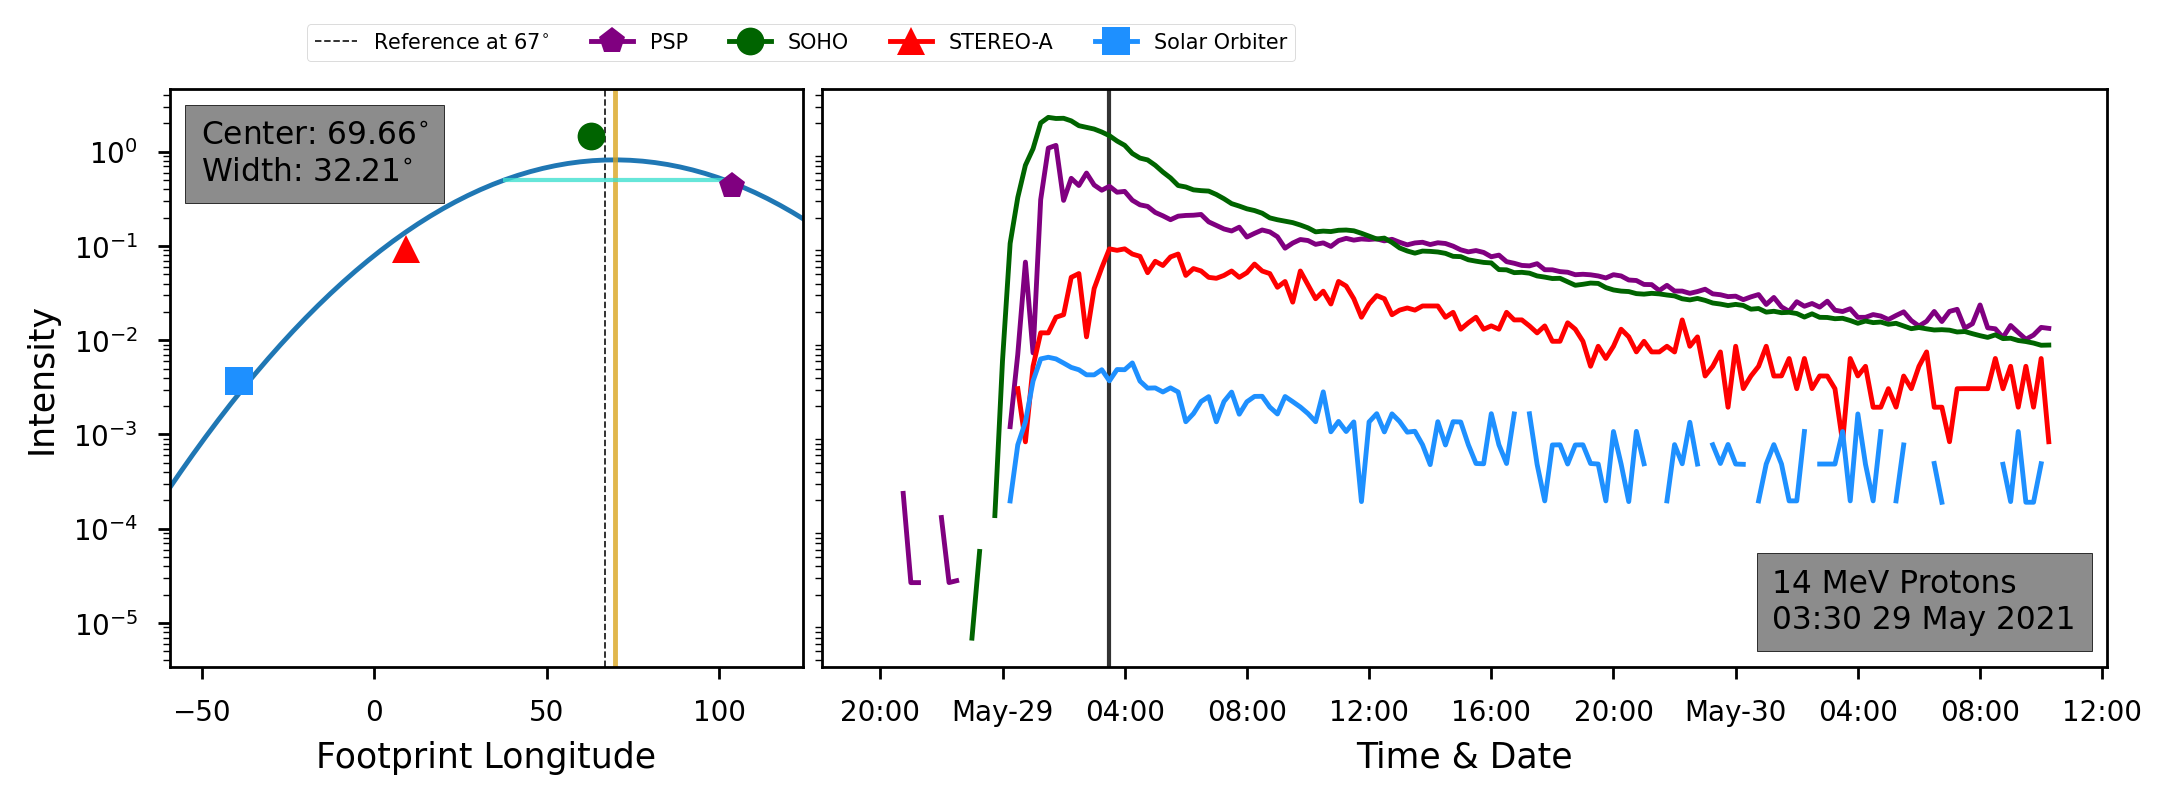
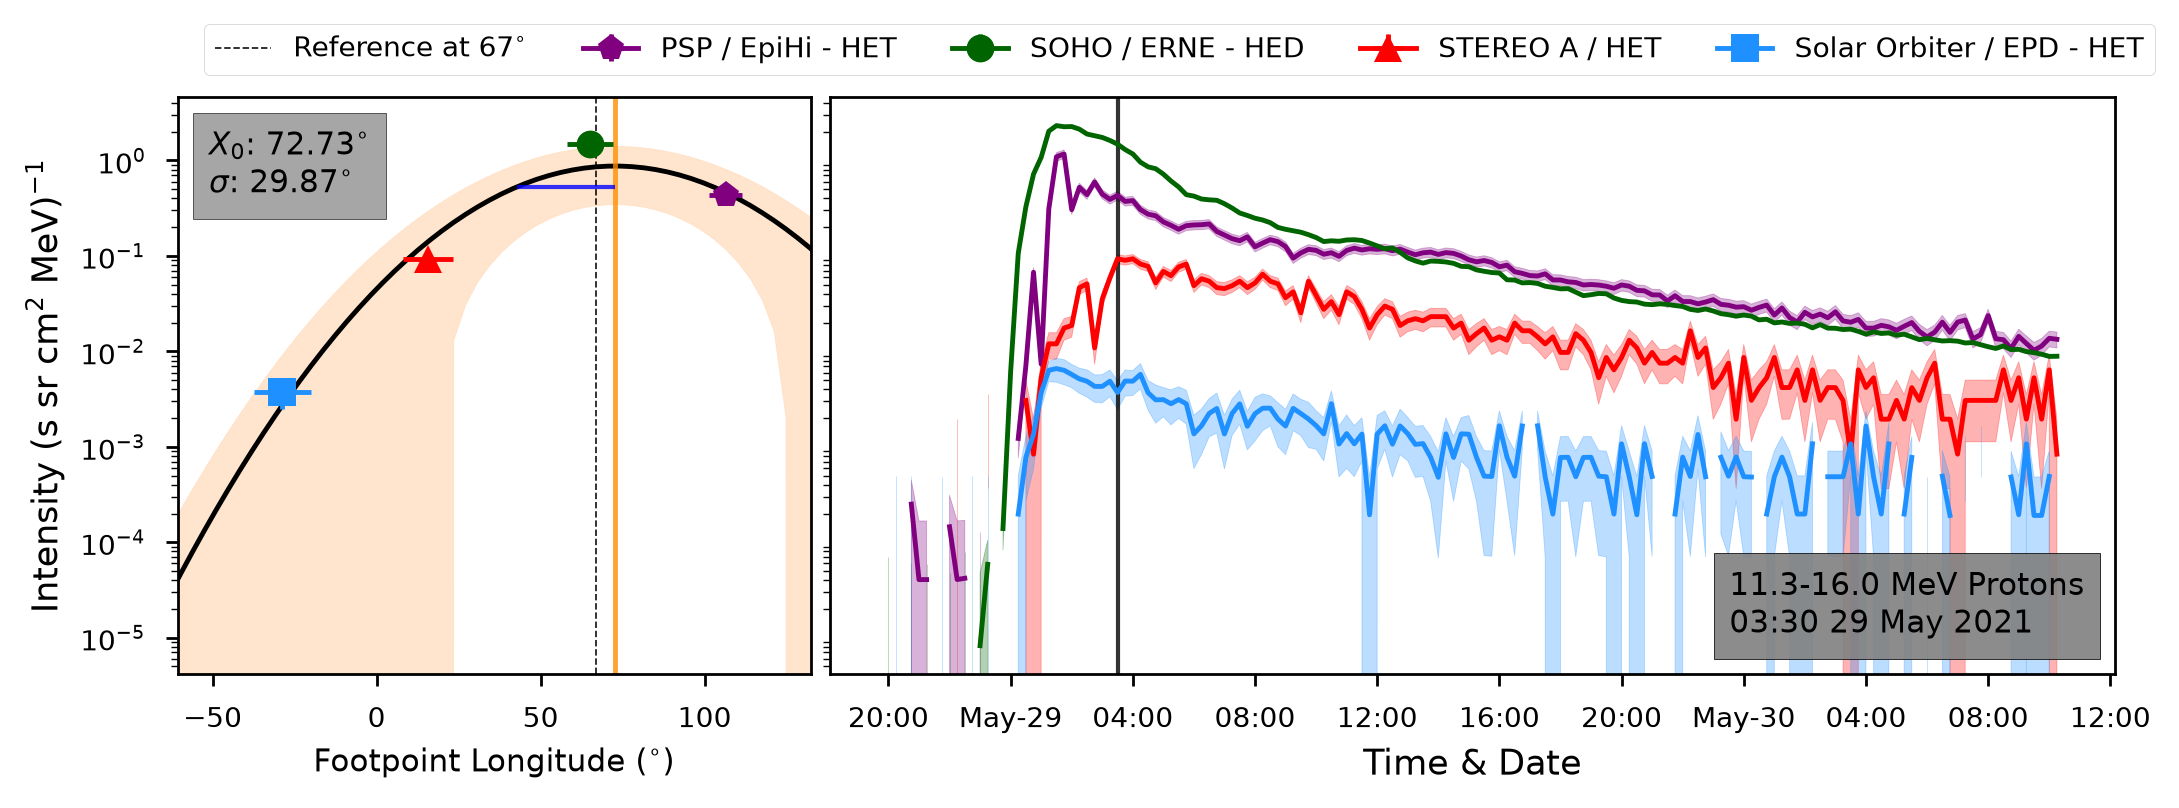
Changing definition for sigma
All Gaussian parameter labels (center and width) are changed to their symbols (X_0 and sigma) for accuracy. The curve plots are also changed for sigma to only show a line from the center to the curve, now showing the distance for sigma (std deviation) and not 'width'. Hidden the backup read_saved_files function and set to false but included in the markdown so users are still able to use it if they please.

diff --git a/spatial_analysis/__init__.py b/spatial_analysis/__init__.py
@@ -64,6 +64,7 @@ mpl.rcParams.update({'font.size': 10,
 
 
 DEGREE_TEXT = r'$^{\circ}$'
+X0_TEXT = r'$X_0$'
 SIGMA_TEXT = r'$\sigma$'
 PM_SYMB = r"$\pm$"
 SQUARED_TEXT = r"$^{2}$"
@@ -115,6 +116,7 @@ class SpatialEvent:
         self.energy_range_label = ""
         self.resampling = ""
         self.plot_foot_sep_limits = False # True if farside event then this plots the separation values
+        self.read_saved_data = False
 
         if 'flare_loc' in kwargs.keys():
             self.flare_loc = kwargs['flare_loc']
@@ -192,7 +194,8 @@ class SpatialEvent:
             resampling = self.resampling,
             source_loc = self.reference,
             vsw_list = self.vsw_list,
-            raw_path = self.raw_path)
+            raw_path = self.raw_path,
+            read_saved_data = self.read_saved_data)
 
         # Merge the sc data to the sm data
         if len(self.sc_data_ic) != 0:
@@ -211,15 +214,16 @@ class SpatialEvent:
             print("Please run '*.load_spacecraft_data()' first.")
 
 
-    def load_spacecraft_data(self, channels, resampling, read_saved_data=True): # Step 2
+    def load_spacecraft_data(self, channels, resampling, read_saved_data=False): # Step 2
         """Download the data for each sc"""
         self.channels = channels
         self.resampling = resampling
         self.spacecraft_list = list(channels.keys())
+        self.read_saved_data = read_saved_data
 
         full_energy_range = [np.nan, np.nan]
         for sc in tqdm(self.spacecraft_list):
-            self.sc_data[sc], self.channel_labels[sc] = load_sc_data(sc, self.channels, [self.start, self.end], self.raw_path, self.resampling, read_saved_data)
+            self.sc_data[sc], self.channel_labels[sc] = load_sc_data(sc, self.channels, [self.start, self.end], self.raw_path, self.resampling, self.read_saved_data)
 
             # Collecting the full energy range
             lbl_tmp = (self.channel_labels[sc]).split('-')
@@ -495,15 +499,16 @@ class SpatialEvent:
 
 
 ## Observer Location data loader
-def horizons_speasy_location_loader(observers, dates, data_path, resampling, source_loc, vsw_list, raw_path):
+def horizons_speasy_location_loader(observers, dates, data_path, resampling, source_loc, vsw_list, raw_path, read_saved_data):
     """Downloading data from sunpy and speasy, similar to SolarMACH but a full time period is loaded for each observer.
 
     NB if any NaNs are present, then they do remain and we do not currently try to fill the gap."""
     filename = f"SpacecraftLocationData_{dates[0].strftime('%d%m%Y')}.csv"
 
     if filename in os.listdir(data_path) or filename in os.listdir(raw_path):
-        print("The positional data is already downloaded, would you like to use this data (y) or redownload the data if settings have changed.")
-        if input("Yes (y) or no (press enter)").lower() in ['yes','y']:
+        #print("The positional data is already downloaded, would you like to use this data (y) or redownload the data if settings have changed.")
+        #if input("Yes (y) or no (press enter)").lower() in ['yes','y']:
+        if read_saved_data:
             if filename in os.listdir(data_path):
                 sm_loop = pd.read_csv(data_path+filename, 
                                       index_col=0, header=[0,1],
@@ -1661,7 +1666,7 @@ def plot_timeseries_result(sc_dict, data_path, dates, channel_labels, background
 
     # Title
     ax[0].set_title(dates[0].strftime("%H:%M - %d %b, %Y"), pad=9, loc='left')
-    fig.supylabel('Intensity')
+    fig.supylabel(f'Intensity (s sr cm{SQUARED_TEXT} MeV){NEGPOWER_TEXT}', x=-0.04)
 
 
     for n, sc in enumerate(obs):
@@ -1775,7 +1780,7 @@ def plot_peak_intensity(sc_dict, data_path, date, peak_data_results, energy_rang
     gauss_ax = fig.add_subplot(grid[0,0])
     tseries_ax = fig.add_subplot(grid[0,1:], sharey=gauss_ax)
 
-    gauss_ax.set_ylabel('Intensity', fontsize=9)
+    gauss_ax.set_ylabel(f'Intensity (s sr cm{SQUARED_TEXT} MeV){NEGPOWER_TEXT}', fontsize=9)
     if plot_foot_sep_limits:
         gauss_ax.set_xlabel(f'Footpoint Separation ({DEGREE_TEXT})', fontsize=9)
         x_col_label = 'long_sep'
@@ -1830,11 +1835,11 @@ def plot_peak_intensity(sc_dict, data_path, date, peak_data_results, energy_rang
     y_curve = 10**(log_gauss_function(x_curve, peak_data_results['A'], peak_data_results['X0']+flarelong, peak_data_results['sigma']))
 
     gauss_ax.semilogy(x_curve, y_curve, color='k')
-    gauss_ax.axvline(x=peak_data_results['X0']+flarelong, color='goldenrod', linewidth=1.2, alpha=0.8)
+    gauss_ax.axvline(x=peak_data_results['X0']+flarelong, color='darkorange', linewidth=1.2, alpha=0.8)
     gauss_ax.hlines(y=0.6065*(10**peak_data_results['A']),
                     xmin=(peak_data_results['X0']+flarelong-peak_data_results['sigma']),
-                    xmax=(peak_data_results['X0']+flarelong+peak_data_results['sigma']),
-                    color='turquoise', linewidth=1.2, alpha=0.8)
+                    xmax=(peak_data_results['X0']+flarelong),
+                    color='blue', linewidth=1.2, alpha=0.8)
 
     # Provide error range
 
@@ -1842,21 +1847,23 @@ def plot_peak_intensity(sc_dict, data_path, date, peak_data_results, energy_rang
     gauss_ax.fill_between(x_curve, y_curve-yerr_curve, y_curve+yerr_curve, alpha=0.7, color='peachpuff')
 
     # Add vertical line for flare if given
+    gauss_text = ''
     if not pd.isna(flare_loc[0]):
         gauss_ax.axvline(x=flarelong, color='k', linestyle='dashed',
                          linewidth=0.5, alpha=0.9,
                          label=f"Reference at {flare_loc[0]}{DEGREE_TEXT}")
+        gauss_text = f"Reference at [{flare_loc[0]}, {flare_loc[1]}]{DEGREE_TEXT}\n"
 
     # Add the text
-    gauss_text = f"Center = {peak_data_results['X0']+flarelong:.1f}{DEGREE_TEXT}\n"
-    gauss_text = f"{gauss_text}Width = {peak_data_results['sigma']:.1f}{DEGREE_TEXT}"
+    gauss_text = f"{gauss_text}{X0_TEXT} = {peak_data_results['X0']+flarelong:.1f}{DEGREE_TEXT}\n"
+    gauss_text = f"{gauss_text}{SIGMA_TEXT} = {peak_data_results['sigma']:.1f}{DEGREE_TEXT}"
     box_obj = AnchoredText(gauss_text, frameon=True, loc='upper left', pad=0.5, prop={'size':8})
     plt.setp(box_obj.patch, facecolor='aliceblue', alpha=0.8)
     gauss_ax.add_artist(box_obj)
 
 
     gauss_ax.set_xlim([xlimits[0]-40, xlimits[1]+40])
-    gauss_ax.set_ylim([ylimits[0]*0.5, ylimits[1]*10])
+    gauss_ax.set_ylim([ylimits[0]*0.8, ylimits[1]*15])
     tseries_ax.set_xlim(left=(date - dt.timedelta(hours=1)) )#, date + dt.timedelta(hours=20))
     tseries_ax.xaxis.set_major_formatter(
         mpl.dates.ConciseDateFormatter(tseries_ax.xaxis.get_major_locator(),
@@ -1900,7 +1907,7 @@ def plot_curve_and_timeseries(gauss_values, sc_df, full_df, data_path, timestep,
     gauss_ax = fig.add_subplot(grid[0,0])
     tseries_ax = fig.add_subplot(grid[0,1:], sharey=gauss_ax)
 
-    gauss_ax.set_ylabel('Intensity')
+    gauss_ax.set_ylabel(f'Intensity (s sr cm{SQUARED_TEXT} MeV){NEGPOWER_TEXT}')
     tseries_ax.set_xlabel('Time & Date')
 
     if plot_foot_sep_limits:
@@ -1936,15 +1943,16 @@ def plot_curve_and_timeseries(gauss_values, sc_df, full_df, data_path, timestep,
     tseries_ax.axvline(x=timestep, color='k', linewidth=1.2, alpha=0.8)
 
     # Add a vertical line in the gaussian curve to indicate the flares initial position (if provided)
+    gauss_text = ''
     if not pd.isna(flare_loc[0]):
         gauss_ax.axvline(x=flarelong, color='k', linestyle='dashed', linewidth=0.5, alpha=0.9, label=f'Reference at {flare_loc[0]}{DEGREE_TEXT}')
 
     # Add the Gauss results text
     #gauss_values['X0'] = gauss_values['X0']+flarelong
-    gauss_text = f"Center: {gauss_values['X0']+flarelong:.2f}{DEGREE_TEXT}\n"
-    gauss_text = f"{gauss_text}Width: {gauss_values['sigma']:.2f}{DEGREE_TEXT}"
+    gauss_text = f"{gauss_text}{X0_TEXT}: {gauss_values['X0']+flarelong:.2f}{DEGREE_TEXT}\n"
+    gauss_text = f"{gauss_text}{SIGMA_TEXT}: {gauss_values['sigma']:.2f}{DEGREE_TEXT}"
     box_obj = AnchoredText(gauss_text, frameon=True, loc='upper left', pad=0.5, prop={'size':9})
-    plt.setp(box_obj.patch, facecolor='grey', alpha=0.9)
+    plt.setp(box_obj.patch, facecolor='grey', alpha=0.7)
     gauss_ax.add_artist(box_obj)
 
     # Calculate and plot the curve
@@ -1960,11 +1968,11 @@ def plot_curve_and_timeseries(gauss_values, sc_df, full_df, data_path, timestep,
 
 
     # Show the different elements of the curve (ie the center and width)
-    gauss_ax.axvline(x=gauss_values['X0']+flarelong, color='goldenrod', alpha=0.8)
+    gauss_ax.axvline(x=gauss_values['X0']+flarelong, color='darkorange', alpha=0.8)
     gauss_ax.hlines(y=0.6065*(10**gauss_values['A']),
                     xmin=(gauss_values['X0']+flarelong-gauss_values['sigma']),
-                    xmax=(gauss_values['X0']+flarelong+gauss_values['sigma']),
-                    color='turquoise', alpha=0.8, linewidth=1.2)
+                    xmax=(gauss_values['X0']+flarelong),
+                    color='blue', alpha=0.8, linewidth=1.2)
 
 
 
@@ -1977,7 +1985,8 @@ def plot_curve_and_timeseries(gauss_values, sc_df, full_df, data_path, timestep,
                           10**(sc_df['y'][n]),
                           xerr=sc_df['xerr'][n],
                           yerr=10**(sc_df['yerr'][n]),
-                          label=sc_df['sc'][n], marker=markers['marker'],
+                          label=markers['label'], #sc_df['sc'][n],
+                          marker=markers['marker'],
                           color=markers['color'], ecolor=markers['color'])
 
         # Plot the timeseries data
@@ -1987,7 +1996,8 @@ def plot_curve_and_timeseries(gauss_values, sc_df, full_df, data_path, timestep,
                                 y1=full_df[sc_df['sc'][n]]['Flux'] - full_df[sc_df['sc'][n]]['Uncertainty'],
                                 y2=full_df[sc_df['sc'][n]]['Flux'] + full_df[sc_df['sc'][n]]['Uncertainty'],
                             color=markers['color'], alpha=0.3)
-    gauss_ax.legend(bbox_to_anchor=(0.2, 1.03, 1.0, 0.1), loc='upper left', ncols=6, fontsize=6)
+    gauss_ax.legend(loc='upper left', bbox_to_anchor=(0.02,1.15), ncols=6, fontsize=8)
+    #bbox_to_anchor=(0.2, 1.03, 1.0, 0.1), loc='upper left', ncols=6, fontsize=9)
 
     gauss_ax.set_xlim(xlimits[0]-20, xlimits[1]+20)
     tseries_ax.set_ylim(ylimits[0]*0.5, ylimits[1]*2)
@@ -2067,14 +2077,14 @@ def plot_one_timestep_curve(sc_dict, data_path, timestep, channel_labels, flare_
         alpha=0.7, color='peachpuff')
 
     # Show the curves elements
-    ax.axvline(x=gauss_values['X0']+flarelong, color='goldenrod', alpha=0.8)
+    ax.axvline(x=gauss_values['X0']+flarelong, color='darkorange', alpha=0.8)
     ax.hlines(y=0.6065*(10**gauss_values['A']),
                 xmin=(gauss_values['X0']+flarelong-gauss_values['sigma']),
-                xmax=(gauss_values['X0']+flarelong+gauss_values['sigma']),
-                color='turquoise', alpha=0.8, linewidth=1.2, zorder=0)
+                xmax=(gauss_values['X0']+flarelong),
+                color='blue', alpha=0.95, linewidth=1.2, zorder=0)
 
-    gauss_text = f"Center: {gauss_values['X0']:.2f}{DEGREE_TEXT}\n"
-    gauss_text = f"{gauss_text}Width: {gauss_values['sigma']:.2f}{DEGREE_TEXT}"
+    gauss_text = f"{X0_TEXT}: {gauss_values['X0']:.2f}{DEGREE_TEXT}\n"
+    gauss_text = f"{gauss_text}{SIGMA_TEXT}: {gauss_values['sigma']:.2f}{DEGREE_TEXT}"
     box_obj2 = AnchoredText(gauss_text, frameon=True, loc='upper right',
                             pad=0.5, prop={'size':7})
     plt.setp(box_obj2.patch, facecolor='lemonchiffon', alpha=0.5)
@@ -2085,7 +2095,7 @@ def plot_one_timestep_curve(sc_dict, data_path, timestep, channel_labels, flare_
     if not pd.isna(flare_loc[0]):
         ax.axvline(x=flarelong, color='k', linestyle='dashed',
                     linewidth=0.5, alpha=0.9,
-                    label=f"Reference at {flare_loc[0]}{DEGREE_TEXT}")
+                    label=f"Reference at [{flare_loc[0]}, {flare_loc[1]}]{DEGREE_TEXT}")
 
     ax.legend(#bbox_to_anchor=(1., 0.9, 0.5, 0.1), loc='upper left',
                 loc='upper left', ncols=1, fontsize=5)
@@ -2136,8 +2146,8 @@ def plot_gauss_fits_timeseries(sc_dict, data_path, date, ref, channel_labels, fl
     fig, ax = plt.subplots(3, 1, figsize=[6,6], dpi=300, sharex=True)
     plt.subplots_adjust(hspace=0.02)
 
-    ax[0].set_title(date.strftime("%H:%M - %d %b, %Y"), pad=20, loc='left')
-    ax[0].set_ylabel('Intensity')
+    ax[0].set_title(date.strftime("%H:%M - %d %b, %Y"), pad=23, loc='left')
+    ax[0].set_ylabel(f'Intensity (s sr cm{SQUARED_TEXT} MeV){NEGPOWER_TEXT}')
     ax[1].set_ylabel(r'Gauss $X_0$')
     ax[2].set_ylabel(r'Gauss $\sigma$')
 
@@ -2163,7 +2173,7 @@ def plot_gauss_fits_timeseries(sc_dict, data_path, date, ref, channel_labels, fl
         ylimits['intensity'][0] = np.nanmin([ylimits['intensity'][0], np.nanmin(s_df['Flux'])] )
         ylimits['intensity'][1] = np.nanmax([ylimits['intensity'][1], np.nanmax(s_df['Flux'])] )
 
-    ax[0].legend(loc='upper center', ncols=4, bbox_to_anchor=(0.5,1.15))
+    ax[0].legend(loc='upper center', ncols=2, bbox_to_anchor=(0.5,1.22), fontsize=6)
 
 
     # Plot the flare location if its provided
@@ -2171,7 +2181,7 @@ def plot_gauss_fits_timeseries(sc_dict, data_path, date, ref, channel_labels, fl
         ax[1].axhline(y=flare_loc[0],
                       linestyle='dashed', color='k', alpha=0.9, linewidth=0.5,
                       label=f"Reference at [{flare_loc[0]}, {flare_loc[1]}]{DEGREE_TEXT}")
-        ax[1].legend()
+        ax[1].legend(fontsize=8)
 
     # Plot the Gaussian results
     for i, row in sc_dict['Gauss'].iterrows():
@@ -2190,6 +2200,8 @@ def plot_gauss_fits_timeseries(sc_dict, data_path, date, ref, channel_labels, fl
     ax[1].set_ylim([ylimits['center'][0]-20, ylimits['center'][1]+20])
     ax[2].set_ylim([ylimits['sigma'][0]-20, ylimits['sigma'][1]+20])
 
+    locator = mpl.dates.AutoDateLocator(minticks=5, maxticks=8)
+    ax[2].xaxis.set(major_locator=locator, )
     ax[2].set_xlim(left=(date - dt.timedelta(hours=1)))#, date + dt.timedelta(hours=20)])
     ax[2].xaxis.set_major_formatter(
         mpl.dates.ConciseDateFormatter(ax[1].xaxis.get_major_locator(),